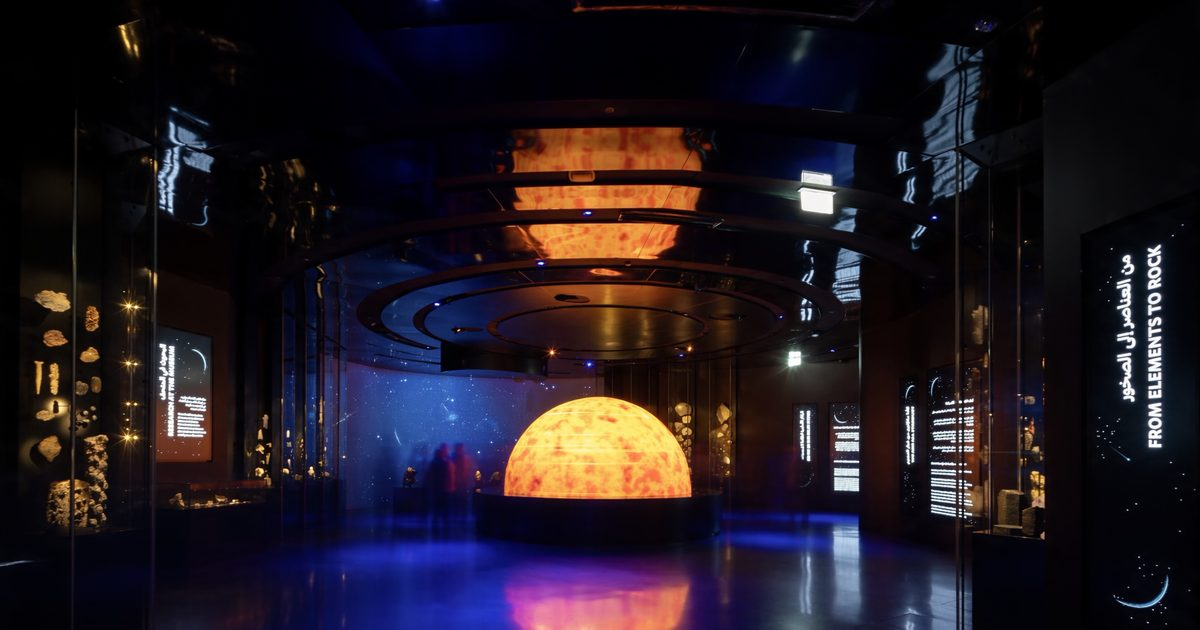
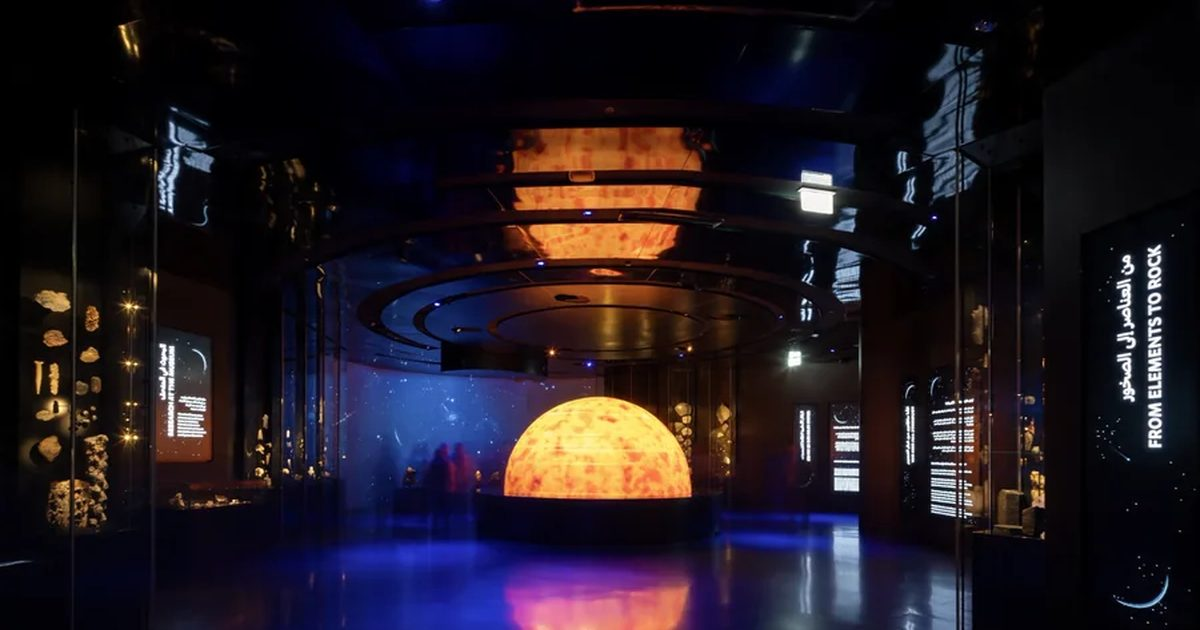
Publish Natural History Museum Abu Dhabi (Andrija): out of drafts, live at /work/natural-history-museum-abu-dhabi/
Claude-Session: https://claude.ai/code/session_01DPVRJsMecb5Dce2MtAZQy3

Changed region(s): [[0.7708, 0.6333, 0.8325, 0.8143], [0.1542, 0.6333, 0.185, 0.6635]]

diff --git a/index.html b/index.html
@@ -1918,7 +1918,7 @@ const F = {
 };
 /* Drafts: projects being prepared. They show on the dev preview and locally, never on the live site
    (panorama.mov, www.panorama.mov, panorama-website.pages.dev). To publish one, take it out of DRAFTS. */
-const DRAFTS = ["wss26","p37"];   /* Natural History Museum Abu Dhabi stays hidden on the live site (Andrija, 2026-10-21) */   /* For the Human of the Future published 2026-10-20 with its hero film */
+const DRAFTS = ["wss26"];   /* Natural History Museum Abu Dhabi published 2026-10-27 */   /* For the Human of the Future published 2026-10-20 with its hero film */
 const SHOW_DRAFTS = !/^((www\.)?panoramafilms\.tv|(www\.)?panorama\.mov|panorama-website\.pages\.dev)$/i.test(location.hostname);
 /* the site's order (Andrija, 2026-10-14): the first six visible projects are Featured, the rest open the catalogue */
 const LIST = ["hotf","wss26","ask","orchard","astro","docu","p13","sport","ten","p07","p08","p37","p09","p10","p12","p14","p15","p16","p36","p18","p17","p19","p20","p21","p23","p24","p25","p26"].filter(k=>SHOW_DRAFTS || !DRAFTS.includes(k));

diff --git a/project.md b/project.md
@@ -184,6 +184,7 @@ Decided with Andrija on 2026-10-14 in the "Panorama Project Merges" page (claude
 - **Renamed (2026-10-14, Andrija):** Telekom Srbija: No Species Dies Alone → No Species Dies Alone, client written "Telekom Serbia". Page address unchanged.
 - **Drafts (2026-10-14, Andrija):** For the Human of the Future and World Sports Summit 2026 are drafts (`DRAFTS` in the code). They show on the dev preview and locally, and are hidden on the live site (panoramafilms.tv, www.panoramafilms.tv, panorama.mov, www.panorama.mov, panorama-website.pages.dev): not in Featured, the catalogue, search or Previous / Next, and their links don't open. Their text is still in the page source. On the live site Featured is then Ask More, The Orchard Keeper, Astronauts at the Museum, What Does the Future Hold?, Dubai, the City of Sport and What's Next.; the catalogue starts at ImagineBoka.ai. To publish a draft, take it out of `DRAFTS`. Natural History Museum Abu Dhabi (`p37`) is a draft too since 2026-10-21 (Andrija): on dev, hidden on the live site.
 - **Hidden:** 4 Islands (`HIDDEN` in the code; data kept).
+- **Natural History Museum Abu Dhabi published (2026-10-27, Andrija):** out of `DRAFTS`, live on panoramafilms.tv at /work/natural-history-museum-abu-dhabi/.
 - **Natural History Museum Abu Dhabi, header, film and spread (2026-10-27, Andrija):** the project opens with the timelapse of the sun-dome hall (`proj/…/05.mp4` as `F.p37.file`, `mute:true`): it loops, silent, with no player controls and no click-to-pause. Below the project text, full width, the behind-the-scenes film Andrija supplied ("2024_NHM_AD_SOUNDSCAPES_BTS_003", 31 s, `proj/…/08.mp4`/`.webm` with sound, poster `08.webp`) plays on its own, muted and looping, with no caption; a click turns its sound on or off (`TOPFILM` in the code: a second film between any project's text and its spread). After it the museum photos are a magazine spread like ImagineBoka.ai's, with no heading (`EXHIBIT_HEAD.p37` empty) (`EXHIBIT.p37`, `EXHIBIT_LAYOUTS.p37`, seven photos), with the pull quote "Through sound design, music composition, and spatial mixing, we helped bring these environments to life." (from Andrija's intro); no poster; black and white turning to colour in focus. (Earlier the same day the film was the header, then sat in the spread.) The spread can differ per project: `EXHIBIT_LAYOUTS`, `EXHIBIT_QROWS`, `EXHIBIT_DIR` (photo folder, default `ex/`), `EXHIBIT_HEAD` (default "At the exhibition"); an EXHIBIT entry `[i, w, h, 'v']` is a looping muted video. The photo-story slideshow is off for this project (pjdata `imgs` empty).
 - **ImagineBoka.ai card (2026-10-22, Andrija):** no client line under the title on the homepage (`nocl:true`); "Photo exhibition, curated by Andrija Kovač" stays on its project page.
 - Old links to merged pages (`#What-Does-The-Future-Hold-S02`, `#Dubai-Future-Forum-Chronicles-1`, `#Dubai-Future-Forum-2022`, `#Valamar-Arba-Resort`) open the merged page (`SLUG_ALIAS`). A film shown first on a page can carry its own name (`mainT`) instead of the project title.
